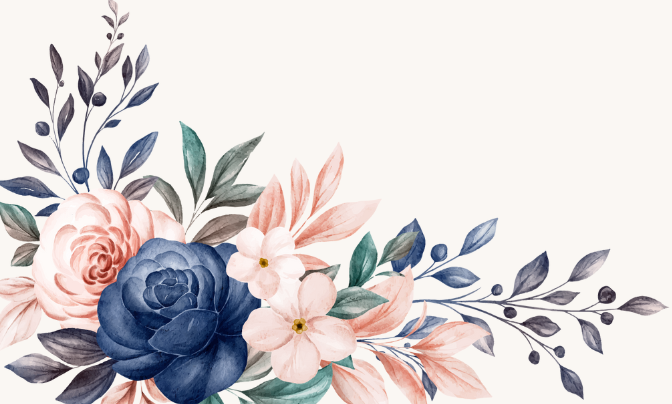
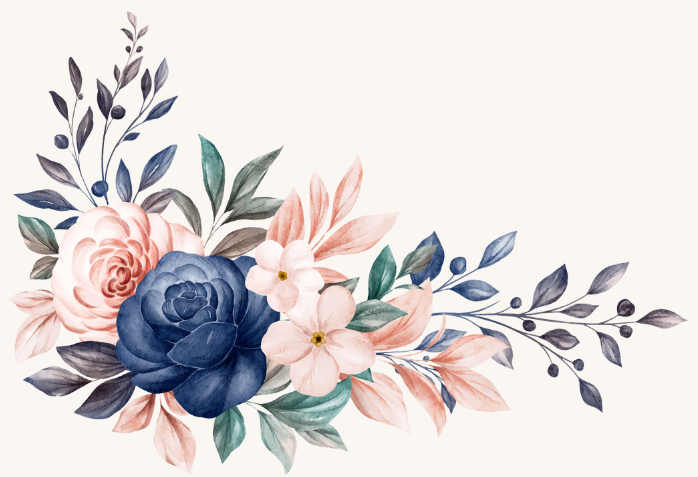
cambios de tamano e imagenes

diff --git a/index.html b/index.html
@@ -16,7 +16,7 @@
 <body>
 
   <!--Navbar-->
-  <img src="imagenes/header4.png " height="" width="100%" class="d-block w-100" >
+  <img src="imagenes/header5.png " height="" width="100%" class="d-block w-100" >
 
   <!--Texto-->
   <div class="row m-0 pt-5 justify-content-center">
@@ -37,14 +37,14 @@
 
       <div class="m-0">
         <br></br>
-        <p class="texto2">Queremos que seas parte de este día tan especial</p>
+        <p class="texto2">Queremos compartir la felicidad de nuestra unión con ustedes</p>
       </div>
 
       
     </div>
    
   </div>
-  <img src="imagenes/esquina inf.png " height="15%" width="25%">
+  <img src="imagenes/esquina inf.png " height="30%" width="40%">
   <!--Texto-->
   
   <!--Cards-->
@@ -57,13 +57,14 @@
           <p class="texto2">Celebración religiosa </p>
         </div>
         <div class="card-body m-0">
-          <p class="texto3"> Parroquia Virgen de Fátima | 19.00hs</p>
+          <p class="texto2"> Parroquia Virgen de Fátima | 19.00hs</p>
+          <p class="texto3"> Calle Gral. Acha sur , Villa Krause, San Juan</p>
           <div class="text-center">
           <a class="btn boton m-3 text-black" href="https://www.google.com/maps/place/Santuario+Inmaculado+Coraz%C3%B3n+De+Mar%C3%ADa+De+Fat%C3%ADma+O+GRUTA+DE+VIRGEN+DE+FATIMA/@-31.5706175,-68.5187255,15z/data=!4m6!3m5!1s0x96811554a09dbf9d:0x8511df72c449f76f!8m2!3d-31.5706175!4d-68.5187255!16s%2Fg%2F1tscq6r8?entry=ttu" role="button">
             Ver ubicación
           </a>
           </div>
-          <p class="texto3"> (Calle Gral. Acha sur , Villa Krause, San Juan)</p>
+          
         </div>
       </div>
     </div>
@@ -75,14 +76,15 @@
          <p class="texto2">Festejo</p>
         </div>
         <div class="card-body m-0">
-          <p  class="texto3">Salón Victor Victoria Resort | 20.30hs</p>
+          <p  class="texto2">Salón Victor Victoria Resort | 20.30hs</p>
           <p></p>
+          <p  class="texto3">Av. Libertador San Martín 12013 (o) Rivadavia, San Juan</p>
           <div class="text-center">
           <a class="btn boton m-3 text-black" href="https://www.google.com/maps/place/Victor+Victoria+Resort+de+Monta%C3%B1a/@-31.5403664,-68.6764692,17z/data=!3m1!4b1!4m9!3m8!1s0x9681465a41494d6d:0x2210b56a7acc1ccf!5m2!4m1!1i2!8m2!3d-31.5403664!4d-68.6764692!16s%2Fg%2F11fy56dq8y?entry=ttu" role="button">
            Ver ubicación
           </a>
           </div>
-          <p  class="texto4">(Av. libertador san martin 12013 (o) rivadavia, San Juan)</p>
+          
         </div>
         
        
@@ -92,10 +94,11 @@
     <div class="row m-0 pt-5 justify-content-center">
       <div class="col-9">
         <div class="text-center pb-3">
-
+          <img src="imagenes/central.png " height="" width="100%" class="d-block w-100" >
+          <br></br>
             <div class="m-0">
             
-              <p class="texto2">¿Contamos con vos?</p>
+              <p class="texto2">¡Te esperamos!</p>
               <p  class="texto4">Confirmar asistencia antes del 11 de Noviembre</p>
               <div class="text-center">
                 <a class="btn boton m-3 text-black" href="./formulario.html" role="button">
@@ -103,6 +106,7 @@
                 </a>
                 <br></br>
               </div>
+              <img src="imagenes/central.png " height="" width="100%" class="d-block w-100" >
             </div>
         </div>
       </div>
@@ -118,7 +122,8 @@
         </div>
         <div class="card-body m-0">
           
-          <p  class="texto3">El mejor regalo es que estés con nosotros en nuestro día, pero si deseas hacernos un obsequio  te dejamos una lista con algunas opciones:</p>
+          <p  class="texto3">El mejor regalo es que estés con nosotros en nuestro día, 
+            pero si deseas hacernos un obsequio te dejamos una lista con algunas opciones:</p>
         
           <div class="text-center">
             <a class="btn boton m-3 text-black" href="./regalos.html" role="button">
@@ -135,8 +140,8 @@
     </div>
       
   </div>
-  <!--Cards-->
-    <img src="imagenes/esquina inf.png " height="15%" width="25%"   >
+ 
+    <img src="imagenes/esquina inf.png " height="30%" width="40%"   >
   <!-- Footer -->
   <footer class="text-center text-white">
 

diff --git a/estilos.css b/estilos.css
@@ -40,13 +40,13 @@ nav {
 
 .texto1{
     font-weight: bold !important; 
-    font-size: 16 !important;
+    font-size: 200% !important;
     color: #1E2E66 !important; 
 }
 
 .texto2{
     font-weight: 600 !important; 
-    font-size: 14 !important;
+    font-size: 120% !important;
     letter-spacing: 1px;
     color: #1E2E66 !important;
     text-align: center !important;
